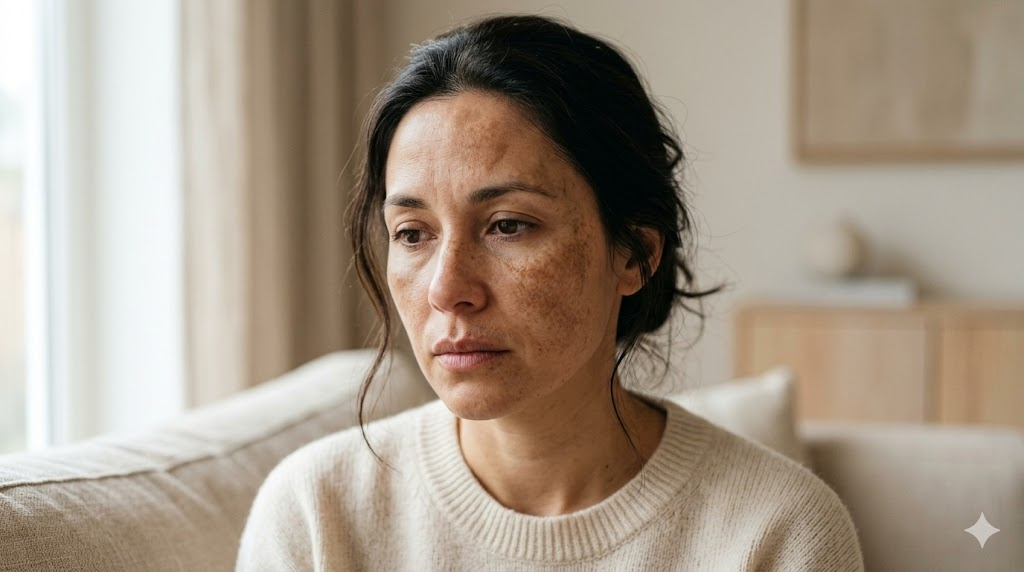
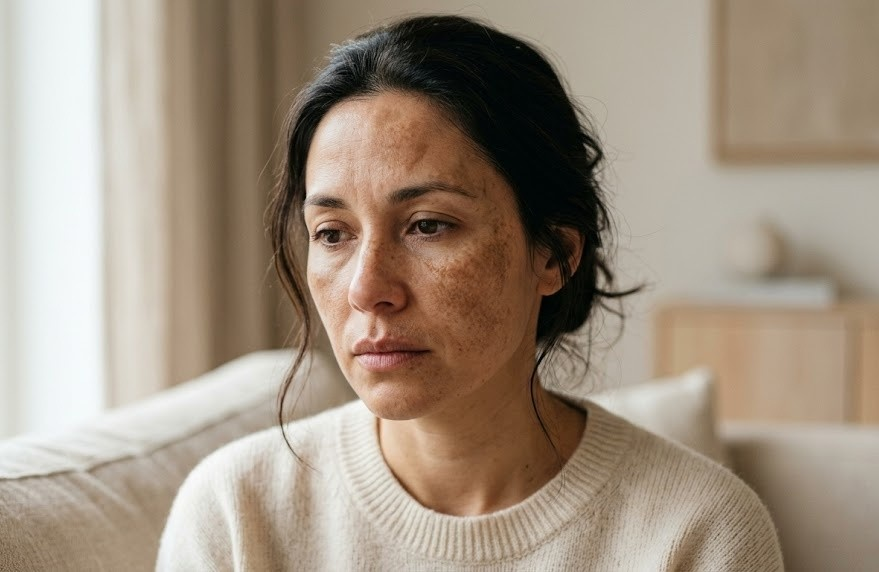
Img atualizada

diff --git a/index.html b/index.html
@@ -118,7 +118,7 @@
       </p>
     </div>
     <div style="display:flex; flex-direction:column; align-items:center; gap:20px; margin-top:16px;">
-        <div class="w-full md:w-120 overflow-hidden" style="height:250px; border-radius:12px; background-color:rgba(153,79,32,0.1);">
+        <div class="w-full md:w-120 overflow-hidden" style=" border-radius:12px; background-color:rgba(153,79,32,0.1);">
             <img 
                 src="imagens/iamelasma.jpg" 
                 alt="Nicole Carvalho — Biomédica e Expert em Melasma"
